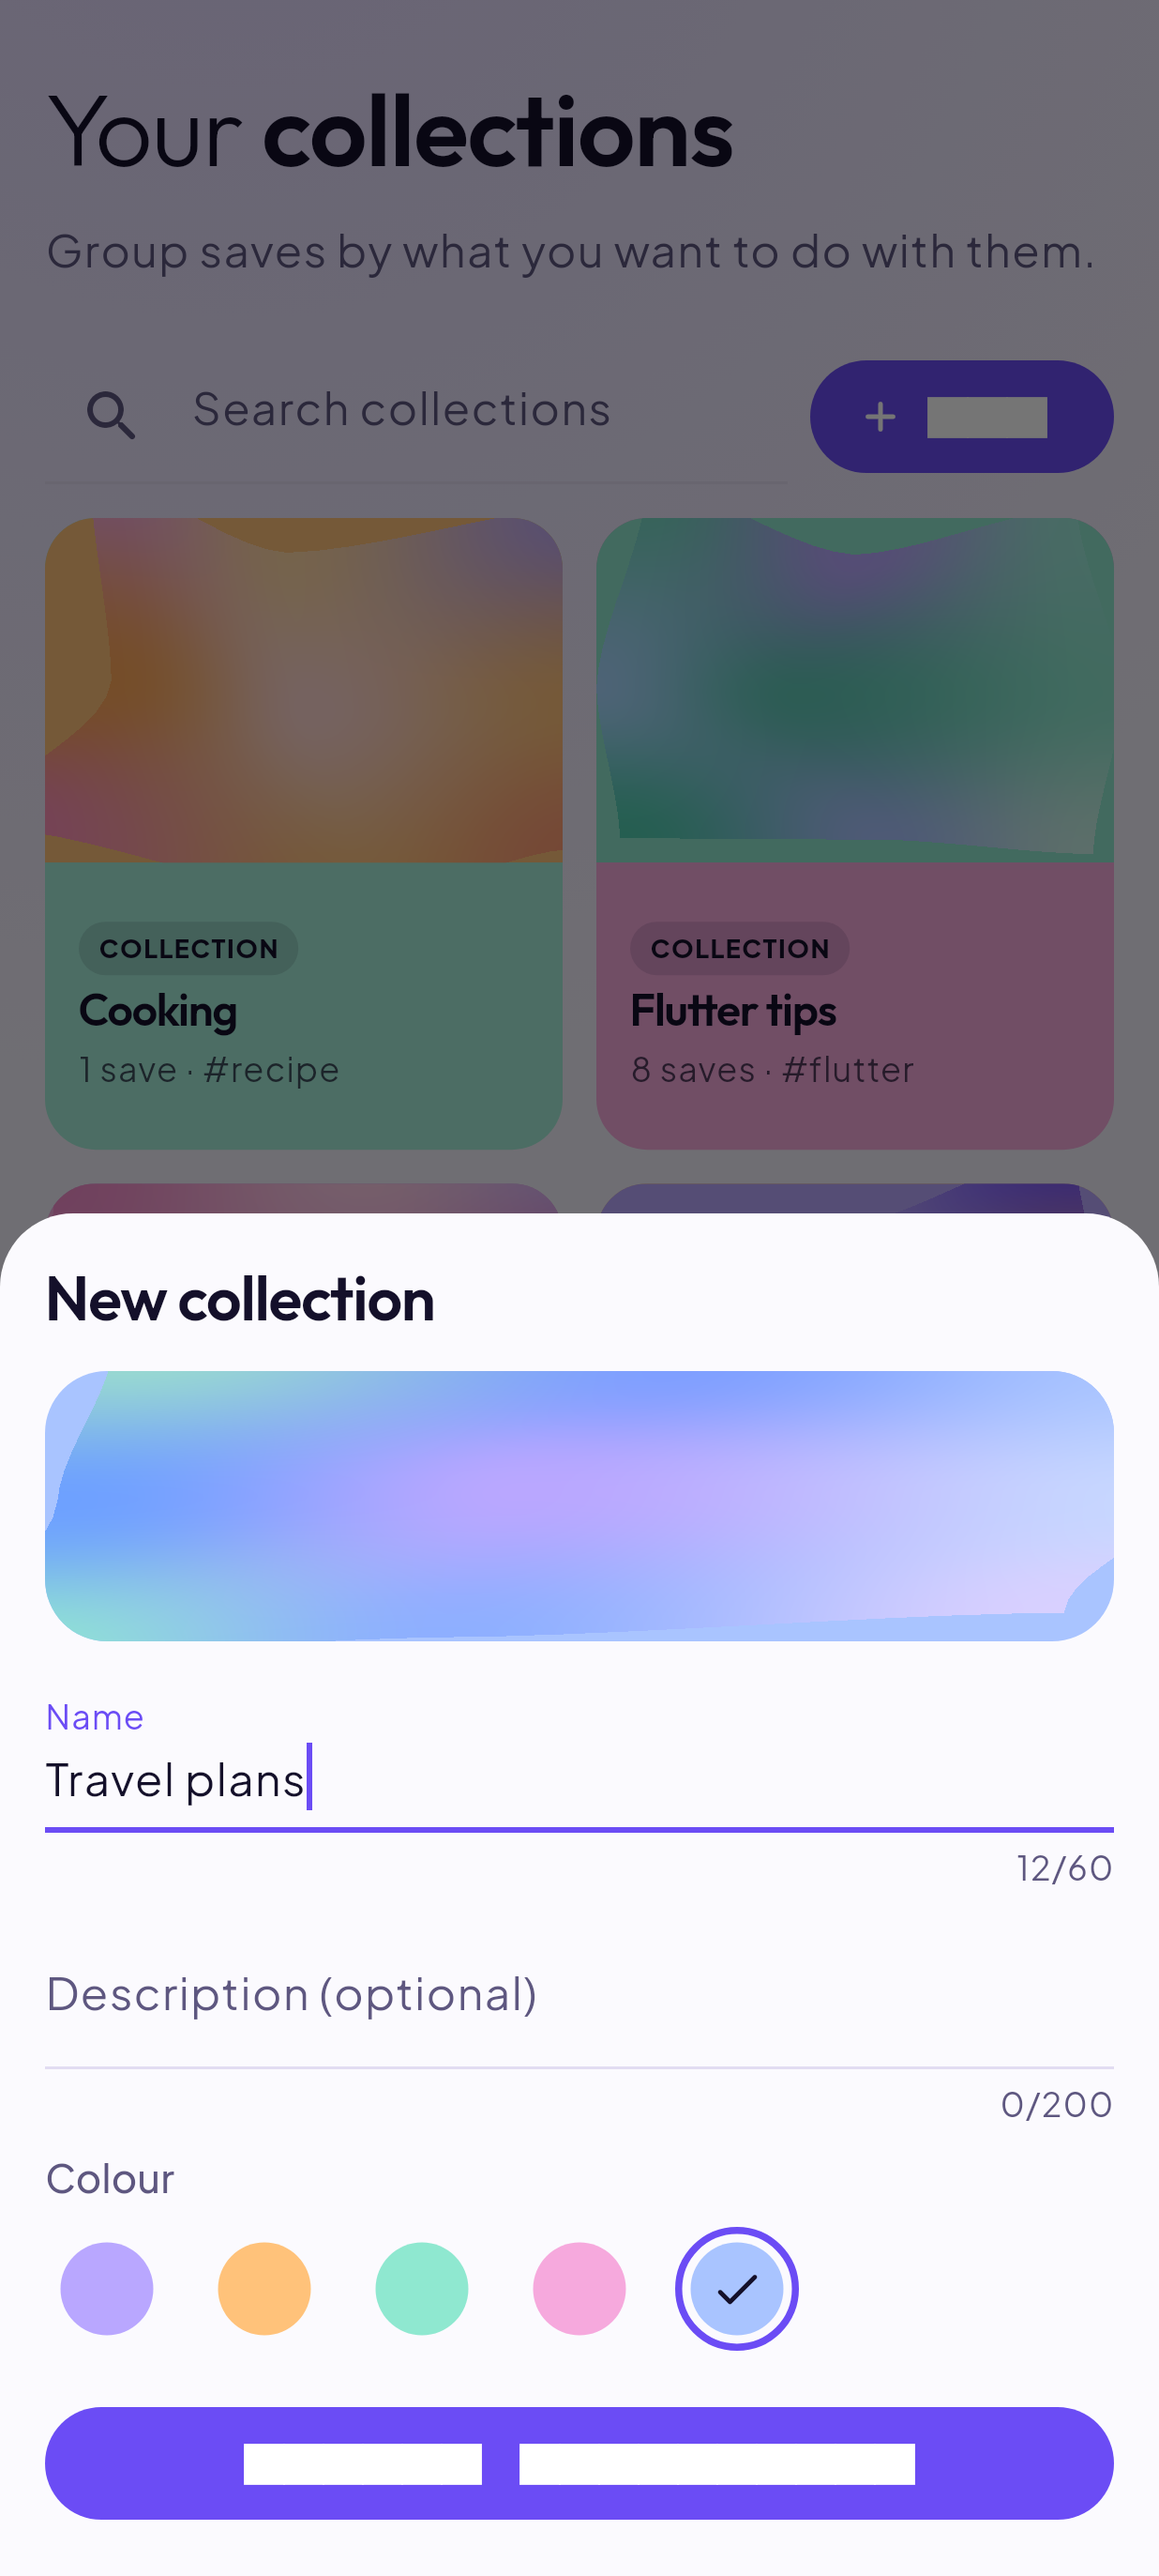
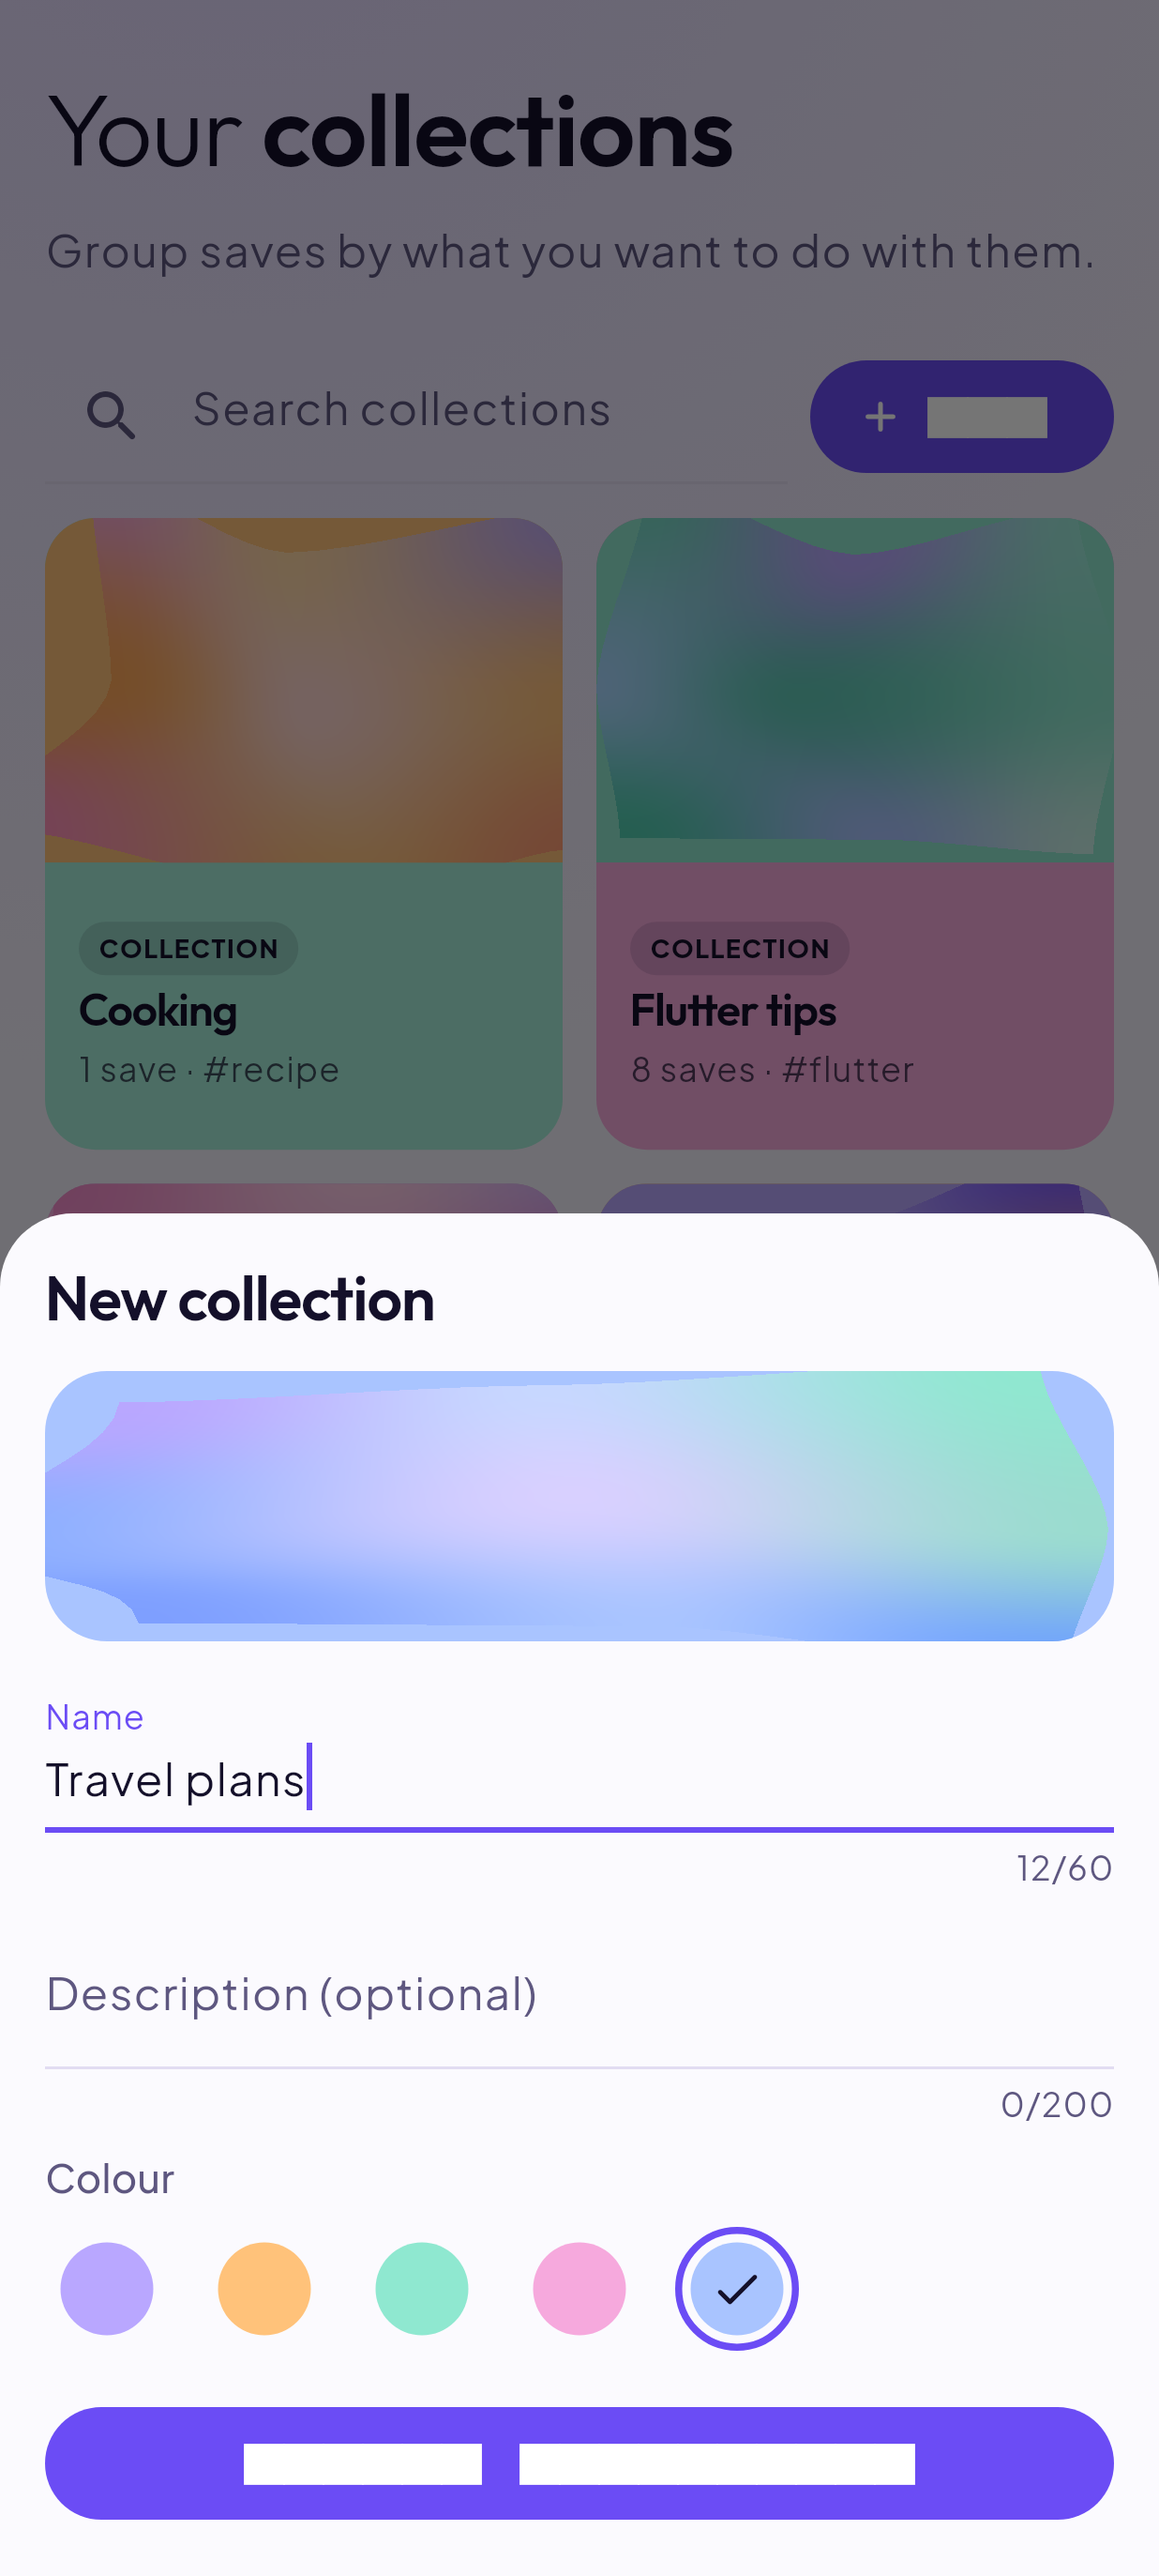
Pin new-collection cover seeds in tests so the sheet golden is stable

Changed region(s): [[0.0307, 0.5264, 0.9838, 0.6503]]

diff --git a/pinne_flutter/lib/features/collections/collection_editor.dart b/pinne_flutter/lib/features/collections/collection_editor.dart
@@ -51,7 +51,8 @@ class _CollectionEditorSheetState extends ConsumerState<CollectionEditorSheet> {
     text: widget.editing?.description,
   );
   late int _palette = widget.editing?.paletteIndex ?? widget.defaultPalette;
-  late final int _seed = widget.editing?.coverSeed ?? newCoverSeed();
+  late final int _seed =
+      widget.editing?.coverSeed ?? ref.read(coverSeedProvider)();
   String? _error;
   var _busy = false;
 

diff --git a/pinne_flutter/lib/features/collections/collections_providers.dart b/pinne_flutter/lib/features/collections/collections_providers.dart
@@ -171,3 +171,6 @@ int defaultCollectionPalette(Iterable<CollectionTileData> collections) {
 
 /// A fresh mesh layout for a new collection's cover.
 int newCoverSeed([Random? random]) => (random ?? Random()).nextInt(0x7fffffff);
+
+/// Where new cover seeds come from; tests pin it so goldens are stable.
+final coverSeedProvider = Provider<int Function()>((ref) => newCoverSeed);

diff --git a/pinne_flutter/test/collections_test.dart b/pinne_flutter/test/collections_test.dart
@@ -120,6 +120,7 @@ void main() {
             yield const <Item>[];
           }),
           collectionsApiProvider.overrideWithValue(api),
+          coverSeedProvider.overrideWithValue(() => 4242),
         ],
         child: MaterialApp(
           debugShowCheckedModeBanner: false,
